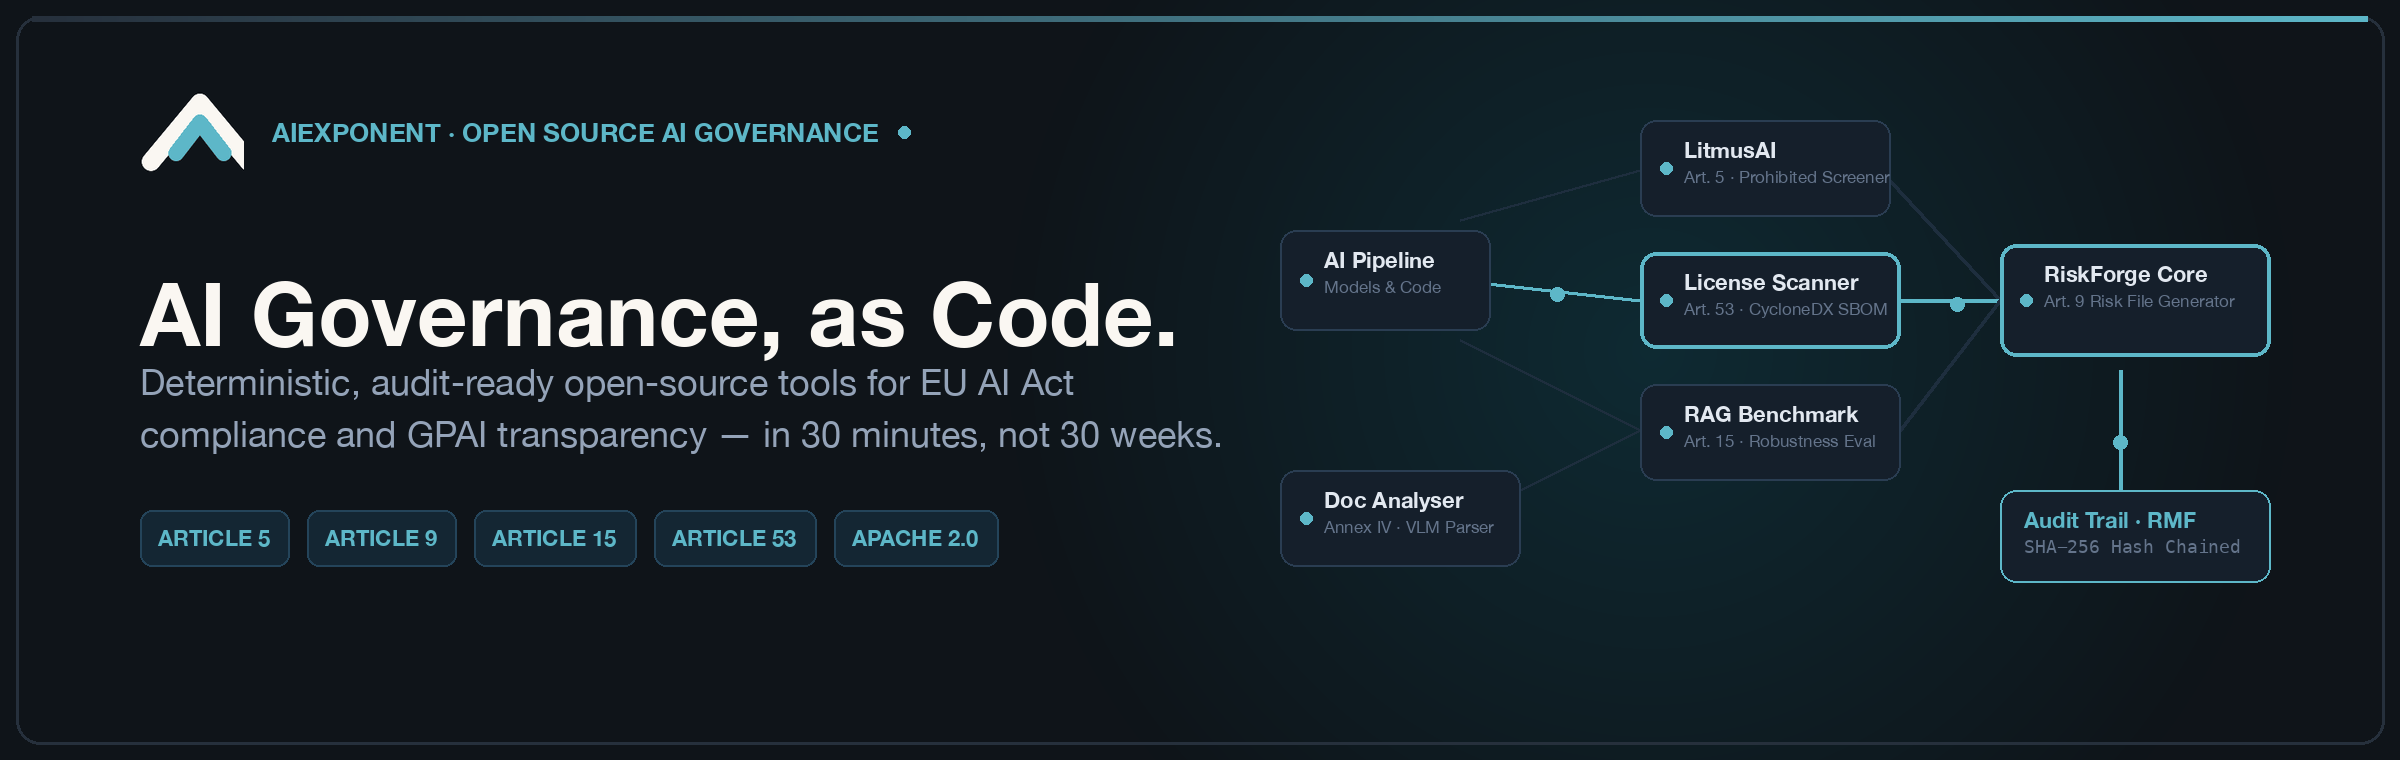
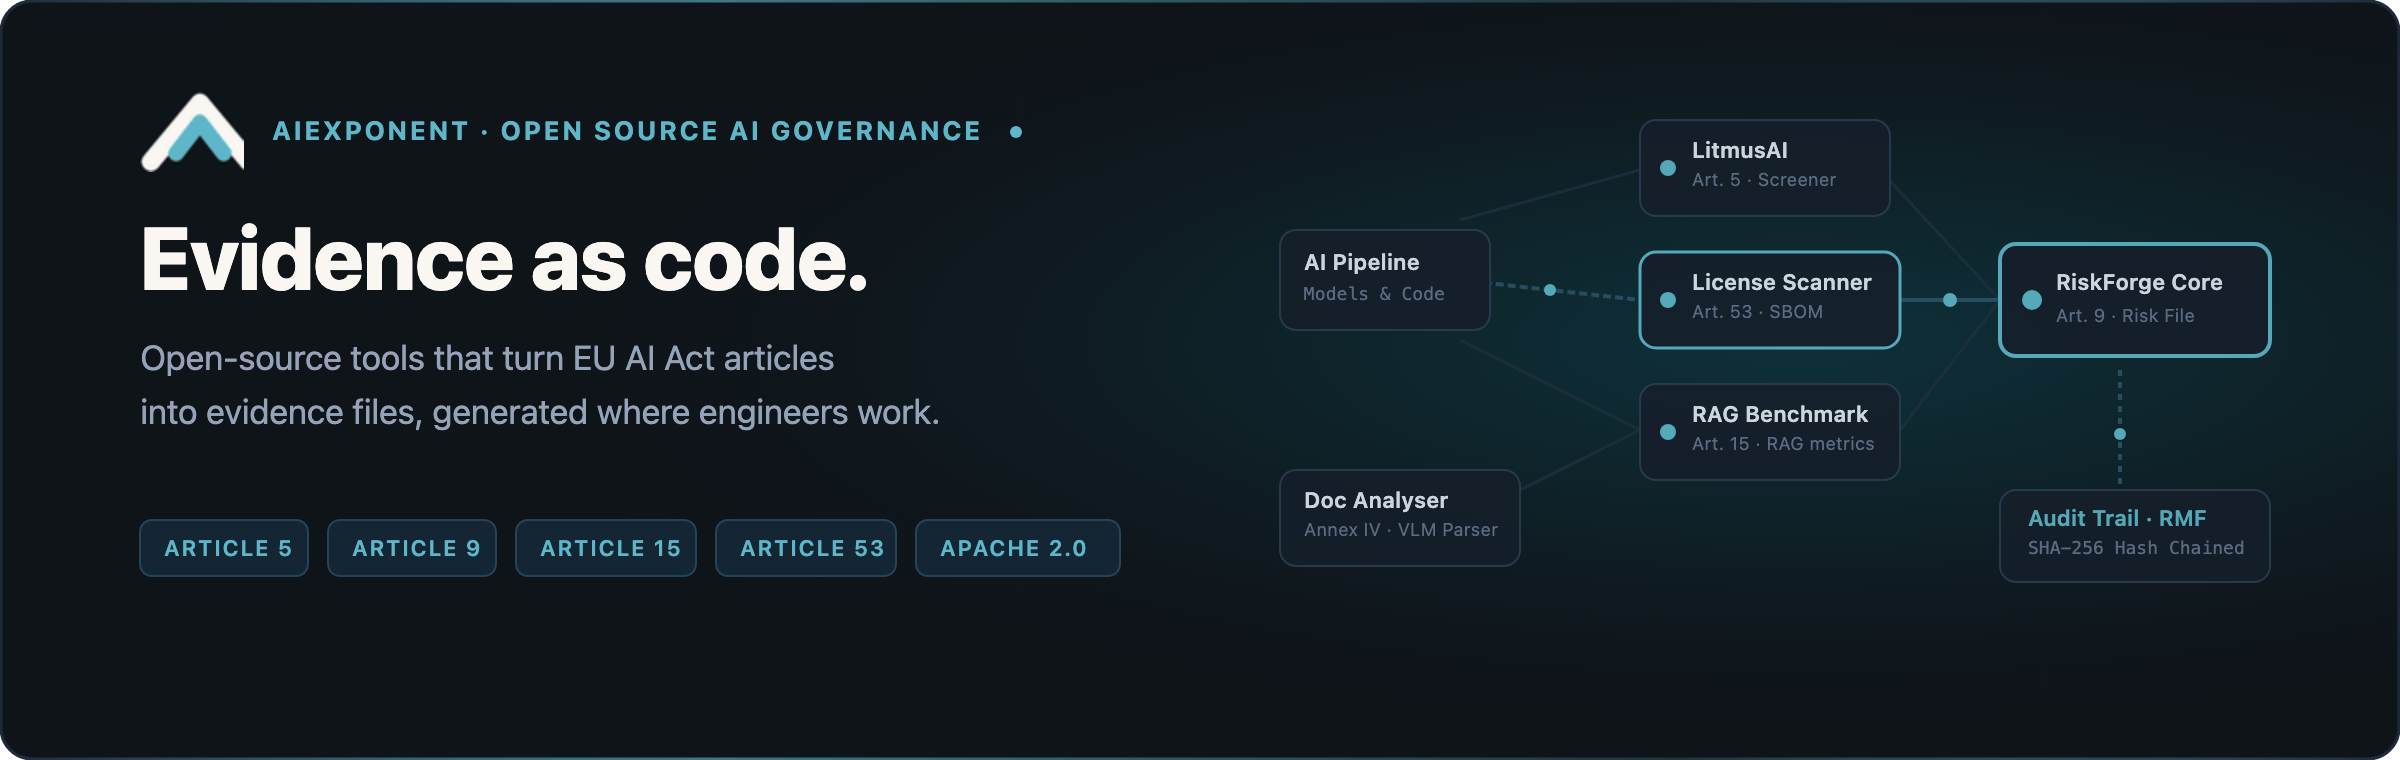
fix(profile): match released tool facts and drop banned claims (PRD-374) (#17)
* fix(profile): match released tool facts and drop banned claims (PRD-374)

RiskForge question count 50+ to 37, per the tool's README.
LitmusAI covers ten Article 5(1) points as of ruleset v1.2, not eight.
Remove "production-ready", the 30-minute promises and the
"Active Enforcement" badge. Use the tagline "Evidence as code for
the EU AI Act."

* fix(profile): hero banner carries the current tagline, no timing claim (PRD-374)

Headline and subtitle in both SVG sources now match the README text.
Shortened four diagram labels that ran past their boxes and fixed the
overline spacing. PNGs regenerated from the SVGs at 2400x760.

diff --git a/profile/README.md b/profile/README.md
@@ -4,14 +4,13 @@
     <picture>
       <source media="(prefers-color-scheme: dark)" srcset="https://raw.githubusercontent.com/aiexponent/.github/main/profile/brand/hero-banner-dark.png">
       <source media="(prefers-color-scheme: light)" srcset="https://raw.githubusercontent.com/aiexponent/.github/main/profile/brand/hero-banner-light.png">
-      <img src="https://raw.githubusercontent.com/aiexponent/.github/main/profile/brand/hero-banner-light.png" alt="AiExponent — AI Governance, as Code" width="100%"/>
+      <img src="https://raw.githubusercontent.com/aiexponent/.github/main/profile/brand/hero-banner-light.png" alt="AiExponent: Evidence as code for the EU AI Act" width="100%"/>
     </picture>
   </a>
   <p>
     <a href="https://aiexponent.com"><img src="https://img.shields.io/badge/Website-aiexponent.com-0D5463?style=flat-square&logo=googlechrome&logoColor=white" alt="Website"/></a>
     <a href="https://pypi.org/org/AiExponent/"><img src="https://img.shields.io/badge/PyPI-AiExponent-0D5463?style=flat-square&logo=pypi&logoColor=white" alt="PyPI"/></a>
     <a href="https://github.com/aiexponent/.github/blob/main/LICENSE"><img src="https://img.shields.io/badge/License-Apache_2.0-0D5463?style=flat-square&logo=apache&logoColor=white" alt="License"/></a>
-    <a href="https://eur-lex.europa.eu/legal-content/EN/TXT/?uri=CELEX:32024R1689"><img src="https://img.shields.io/badge/EU_AI_Act-Active_Enforcement-9D2929?style=flat-square&logo=europeanunion&logoColor=white" alt="EU AI Act Active Enforcement"/></a>
   </p>
 </div>
 
@@ -32,7 +31,7 @@ The EU AI Act is not coming. **It is here.**
 
 <sup>¹ Deferred from 2 Aug 2026 / 2 Aug 2027 by the **Digital Omnibus on AI**, [Regulation (EU) 2026/1744](https://eur-lex.europa.eu/eli/reg/2026/1744/oj/eng) of 8 July 2026, published in the Official Journal on 24 July 2026 and in force since 27 July 2026. These are binding dates, not a proposal. Sources: [Regulation (EU) 2024/1689](https://eur-lex.europa.eu/legal-content/EN/TXT/?uri=CELEX:32024R1689) · [Regulation (EU) 2026/1744](https://eur-lex.europa.eu/eli/reg/2026/1744/oj/eng).</sup>
 
-Most engineering teams cannot produce the required documentation. AiExponent builds the tools that change that — in 30 minutes, not 30 weeks.
+Most engineering teams cannot produce the required documentation. AiExponent builds open-source tools that turn those articles into evidence files. Evidence as code for the EU AI Act.
 
 ### Executive Compliance Matrix
 
@@ -51,7 +50,7 @@ Most engineering teams cannot produce the required documentation. AiExponent bui
 
 ## Open Source Tools
 
-Four production-ready tools. Each maps to one EU AI Act obligation. Each produces a concrete artefact your legal team can file.
+Four released tools. Each maps to one EU AI Act obligation. Each produces a concrete artefact your legal team can file.
 
 ### [litmusai](https://github.com/aiexponent/litmusai) · Article 5
 
@@ -66,7 +65,7 @@ litmus screen --describe "a chatbot for mental-health support for teenagers"
   <img src="https://raw.githubusercontent.com/aiexponent/.github/main/profile/assets/terminals/litmus-terminal.svg" alt="LitmusAI CLI Terminal Execution Preview — Article 5 Prohibited Practice Screening" width="100%"/>
 </p>
 
-Free, deterministic CLI screener for the **eight prohibited-practice categories** of Article 5 as they stand today. Per-category **Red / Amber / Clear** verdict with regulatory citations, confidence levels and remediation, in under 60 seconds, fully offline. A further Art. 5 prohibition takes effect on 2 Dec 2026 and ships in ruleset v1.1.
+Free, deterministic CLI screener for the **ten prohibited-practice categories** of Article 5(1): the original eight, points (a) to (h), and points (ba) and (bb) inserted by Regulation (EU) 2026/1744. Per-category **Red / Amber / Clear** verdict with regulatory citations, confidence levels and remediation, in under 60 seconds, fully offline.
 
 **Output:** hash-verifiable report (JSON / SARIF / Markdown). Ships with the AiExponent reference ruleset — internal panel authored, **not yet lawyer-reviewed**; bring-your-own signed rulesets supported.
 
@@ -282,7 +281,7 @@ riskforge export <system-id> --format pdf
   <img src="https://raw.githubusercontent.com/aiexponent/.github/main/profile/assets/terminals/riskforge-terminal.svg" alt="RiskForge CLI Terminal Execution Preview — 8-Dimension Risk Assessment" width="100%"/>
 </p>
 
-Guided 8-dimension risk assessment CLI with 50+ questions, Annex III pattern matching, SHA-256 hash-chained audit trail. Article 9 documentation in ~30 minutes.
+Guided 8-dimension risk assessment CLI with 37 questions, Annex III pattern matching, SHA-256 hash-chained audit trail.
 
 **Output:** hash-chained PDF with a named signer, plus `rmf.json`, forming an Article 9 risk management file. It is documentation you can file, not a conformity assessment.
 
@@ -434,7 +433,7 @@ Designed for the EU AI Act. Cross-mapped to every active framework:
 
 ## Beyond the CLIs: Attestation & Advisory
 
-> 💡 **Open-Source Guarantee**: All four production CLI tools (`litmusai`, `riskforge`, `license-compliance-checker`, `rag-benchmarking`) remain **100% free**, **Apache 2.0 licensed**, and send **zero telemetry**. On network use they differ: `litmusai` and `riskforge` run fully offline, `license-compliance-checker` queries OSV, ClearlyDefined, GitHub and the Hugging Face Hub to resolve licenses, and `rag-benchmarking` calls whichever LLM you configure as its judge. Sigil will ship on the same terms. Executive AI compliance advisory is the one paid offering below:
+> 💡 **Open-Source Guarantee**: All four released CLI tools (`litmusai`, `riskforge`, `license-compliance-checker`, `rag-benchmarking`) remain **100% free**, **Apache 2.0 licensed**, and send **zero telemetry**. On network use they differ: `litmusai` and `riskforge` run fully offline, `license-compliance-checker` queries OSV, ClearlyDefined, GitHub and the Hugging Face Hub to resolve licenses, and `rag-benchmarking` calls whichever LLM you configure as its judge. Sigil will ship on the same terms. Executive AI compliance advisory is the one paid offering below:
 
 | 🛡 Sigil &mdash; Agent Oversight Attestation | 👔 AiExponent Advisory &mdash; Executive Strategy |
 | :--- | :--- |
